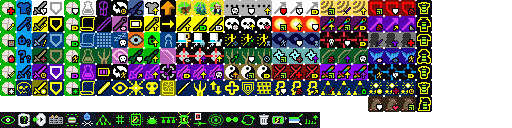
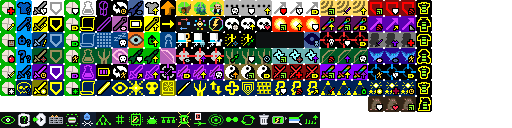
feat(traveler): 旅行者专精天赋图标适配——迁入法师行并重绘
- 天赋图标索引 1080-1082（盗贼行占位图）迁至 1043-1045，
  遵循 mod 专精惯例（与 vanilla 法师首个专精战斗法师同行同列，
  同美食家=1011-1013/魔术师=1075-1077 的落位规则）
- 元素转化：红蓝双元素球+双向转化箭头
- 元素精通：金色星核+原神七元素圆点环绕（火雷风岩草冰水）
- 元素充能：居中金色闪电+七元素彩环（八向镜像正圆）
- 枚举顺序调整为与 UI 展示顺序一致（转化/精通/充能）

Changed region(s): [[0.5, 0.25, 0.5938, 0.375], [0.3438, 0.125, 0.4375, 0.25]]

diff --git a/core/src/main/java/com/shatteredpixel/shatteredpixeldungeon/actors/hero/Talent.java b/core/src/main/java/com/shatteredpixel/shatteredpixeldungeon/actors/hero/Talent.java
@@ -163,7 +163,7 @@ public enum Talent {
     //Warlock T3
     SOUL_EATER(46, 3), SOUL_SIPHON(47, 3), NECROMANCERS_MINIONS(48, 3),
     //Traveler T3
-    ELEMENTAL_MASTERY(1080, 3), ELEMENTAL_RECHARGE(1081, 3), ELEMENTAL_TRANSMUTATION(1082, 3),
+    ELEMENTAL_TRANSMUTATION(1043, 3), ELEMENTAL_MASTERY(1044, 3), ELEMENTAL_RECHARGE(1045, 3),
     //Elemental Blast T4
     BLAST_RADIUS(49, 4), ELEMENTAL_POWER(50, 4), REACTIVE_BARRIER(51, 4),
     //Wild Magic T4
